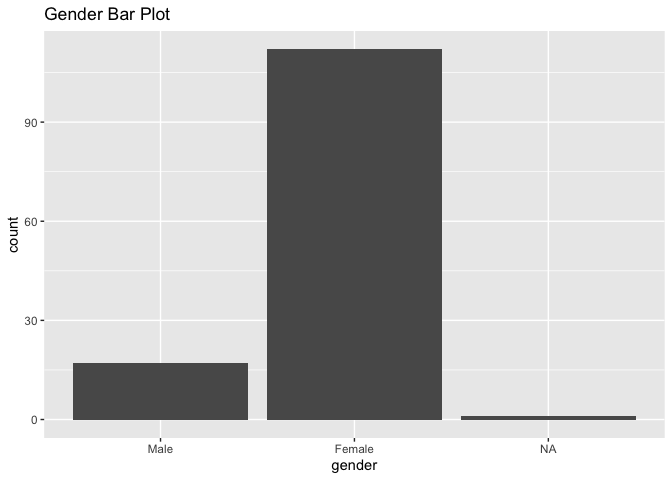
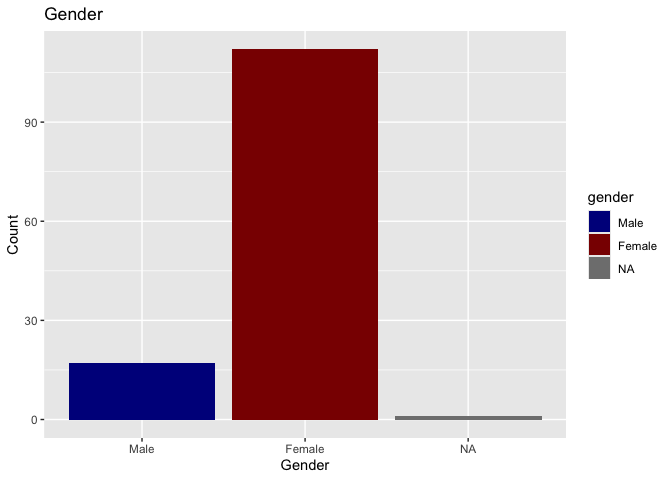
created new graphs to analyze

diff --git a/EDA_Notebook.md b/EDA_Notebook.md
@@ -21,7 +21,7 @@ practices to current health issues. The following data is sourced from
 the Association of Religion Data Archives, www.theARDA.com, and was
 collected by principal investigators Niko Kohls, Harald Walach, and
 George Lewish. The original data set consists of 254 variables and 111
-participants, but for better understanding, the ARDA decided to add
+participants, but for better comprehension, the ARDA decided to add
 variables and responses to include 258 total variables and 130
 respondents. However, for the purposes of this analysis, the variable
 count has been reduced to 13 variables. While this is a much shorter
@@ -77,90 +77,32 @@ REASONING FOR SELECTING THESE VARIABLES!!
 
 We will create a new data frame incorporating our variables of interest.
 
-    ##   [1] "strdream" "disworld" "IGNROVR1" "sprtwrk"  "drmfutr"  "hibnghlp"
-    ##   [7] "inenvrmt" "outspntm" "hrnvoice" "cntraln"  "spclite"  "consbody"
-    ##  [13] "mysmean"  "heatbdy"  "antdstny" "enrgysp"  "extrpow"  "thnkhpn" 
-    ##  [19] "prtdie"   "thnkslw"  "expndbdy" "mnfldrms" "readmnd"  "othrctrl"
-    ##  [25] "vivdrms"  "mntlsprt" "vibskin"  "peace"    "ineyevis" "trnsfrm" 
-    ##  [31] "intouch"  "atrctloc" "nothnk"   "unvrsrel" "knwclng"  "dilinvce"
-    ##  [37] "enrgypls" "cursed"   "sndhrmen" "supntbng" "lfeineye" "blrenvrt"
-    ##  [43] "vewaprt"  "notrivl"  "felsprtb" "posstho"  "hrvochlp" "inspinst"
-    ##  [49] "senrad"   "discenv"  "disself"  "strgtho"  "nofocus"  "sinbdy"  
-    ##  [55] "ildivne"  "benlght"  "incrund"  "pecdrm"   "exgwrld"  "IGNROVR2"
-    ##  [61] "spowork"  "dremfut"  "hibnhlp"  "inenvrnt" "outsptm"  "scldvoc" 
-    ##  [67] "ctstrfor" "imsplit"  "consep"   "depmyst"  "hetbdy"   "antdest" 
-    ##  [73] "enrgyspn" "extnpow"  "mothnkhp" "prtdies"  "slwthk"   "bdyexpnd"
-    ##  [79] "mnfldrm"  "otplrdmd" "wilacton" "vivdrems" "mentsup"  "tngskin" 
-    ##  [85] "atpeace"  "visineye" "bngtrans" "intochev" "locatrct" "bngthot" 
-    ##  [91] "unvrel"   "knocal"   "dilinvoc" "enrgybdy" "crsed"    "mentlhrm"
-    ##  [97] "contsubn" "lifeiney" "blrenvr"  "wrldvew"  "notrvil"  "felexbng"
-    ## [103] "thoinmnd" "voichlp"  "insinst"  "spradsns" "discenvr" "selfwrld"
-    ## [109] "nomythot" "notfocus" "strngsin" "ildivstr" "benlite"  "inrundst"
-    ## [115] "extrexp"  "evokslf"  "altrslf"  "relatexp" "meditech" "whtech"  
-    ## [121] "lngprct"  "oftprct"  "teahinst" "MNDFUL01" "MNDFUL02" "MNDFUL03"
-    ## [127] "MNDFUL04" "MNDFUL05" "MNDFUL06" "MNDFUL07" "MNDFUL08" "MNDFUL09"
-    ## [133] "MNDFUL10" "MNDFUL11" "MNDFUL12" "MNDFUL13" "MNDFUL14" "SPTEXP01"
-    ## [139] "SPTEXP02" "SPTEXP03" "SPTEXP04" "SPTEXP05" "SPTEXP06" "SPTEXP07"
-    ## [145] "SPTEXP08" "SPTEXP09" "SPTEXP10" "SPTEXP11" "SPTEXP12" "SPTEXP13"
-    ## [151] "SPTEXP14" "SPTEXP15" "SPTEXP16" "belgdwth" "redpnwld" "frgwrng" 
-    ## [157] "frgothrt" "gdfrgv"   "prvtpry"  "oftmed"   "relprgm"  "rdbblit" 
-    ## [163] "PRYB4MEL" "lgsprtfc" "prtnrwgd" "suptgod"  "punshsin" "gdabndon"
-    ## [169] "norelygd" "relgstrs" "conghlp"  "congcmft" "condemnd" "concrit" 
-    ## [175] "lifechng" "agexp"    "fathgain" "agegain"  "losfaith" "ageloss" 
-    ## [181] "belinlif" "cntrbch"  "hrschrh"  "atendrel" "wrshpact" "relpref" 
-    ## [187] "DENOM_SP" "relpersn" "sprtprsn" "lifediv"  "lifecal"  "DISTRS01"
-    ## [193] "DISTRS02" "DISTRS03" "DISTRS04" "DISTRS05" "DISTRS06" "DISTRS07"
-    ## [199] "DISTRS08" "DISTRS09" "DISTRS10" "DISTRS11" "DISTRS12" "DISTRS13"
-    ## [205] "DISTRS14" "DISTRS15" "DISTRS16" "DISTRS17" "DISTRS18" "DISTRS19"
-    ## [211] "DISTRS20" "DISTRS21" "DISTRS22" "DISTRS23" "DISTRS24" "DISTRS25"
-    ## [217] "DISTRS26" "DISTRS27" "DISTRS28" "DISTRS29" "DISTRS30" "DISTRS31"
-    ## [223] "DISTRS32" "DISTRS33" "DISTRS34" "DISTRS35" "DISTRS36" "DISTRS37"
-    ## [229] "DISTRS38" "DISTRS39" "DISTRS40" "DISTRS41" "DISTRS42" "DISTRS43"
-    ## [235] "DISTRS44" "DISTRS45" "DISTRS46" "DISTRS47" "DISTRS48" "DISTRS49"
-    ## [241] "DISTRS50" "DISTRS51" "DISTRS52" "DISTRS53" "age"      "gender"  
-    ## [247] "mrtlstus" "chldrn"   "lfesitu"  "denom"    "eductn"   "prsntoc" 
-    ## [253] "sample"   "grouppe"  "I_AGE"    "I_ATTEND" "I_EDUC"   "I_GENDER"
-
-    ##               belgdwth                    prvtpry                   relpersn 
-    ##  Strongly disagree:25   Never                 :39   Not religious at all:50  
-    ##  Disagree         :18   More than once a day  :22   Slightly religious  :37  
-    ##  Agree            :41   Less than once a month:21   Moderately religious:26  
-    ##  Strongly agree   :43   A few times a week    :17   Very religious      :15  
-    ##  NA's             : 3   Once a day            :14   NA's                : 2  
-    ##                         (Other)               :15                            
-    ##                         NA's                  : 2                            
-    ##                  sprtprsn          DISTRS04          DISTRS11 
-    ##  Not spiritual at all:16   Not at all  :76   Not at all  :90  
-    ##  Slightly spiritual  :22   A little bit:33   A little bit:25  
-    ##  Moderately spiritual:45   Moderately  : 9   Moderately  : 6  
-    ##  Very spiritual      :45   Quite a bit : 9   Quite a bit : 5  
-    ##  NA's                : 2   Extremely   : 1   Extremely   : 2  
-    ##                            NA's        : 2   NA's        : 2  
-    ##                                                               
-    ##          DISTRS16          DISTRS23          DISTRS37          DISTRS53 
-    ##  Not at all  :59   Not at all  :69   Not at all  :47   Not at all  :90  
-    ##  A little bit:46   A little bit:34   A little bit:33   A little bit:24  
-    ##  Moderately  : 9   Moderately  :10   Moderately  :17   Moderately  : 8  
-    ##  Quite a bit : 7   Quite a bit : 4   Quite a bit :20   Extremely   : 5  
-    ##  Extremely   : 7   Extremely   : 9   Extremely   :11   NA's        : 3  
-    ##  NA's        : 2   NA's        : 4   NA's        : 2                    
-    ##                                                                         
-    ##     gender        mrtlstus              denom   
-    ##  Male  : 17   Single  :35   Protestant     :50  
-    ##  Female:112   Married :69   No denomination:29  
-    ##  NA's  :  1   Divorced:25   Other          : 8  
-    ##               Widowed : 1   Christian      : 5  
-    ##                             Catholic       : 5  
-    ##                             (Other)        :28  
-    ##                             NA's           : 5
-
-### Graphs/ Tabular…
+### Getting to Know the Participants
 
 #### Gender
 
 ![](EDA_Notebook_files/figure-gfm/unnamed-chunk-4-1.png)<!-- -->
 
+\[Analysis here\] \#### Marital Status
+![](EDA_Notebook_files/figure-gfm/unnamed-chunk-5-1.png)<!-- -->
+
+\[Analysis here\]
+
+#### Denomination
+
+![](EDA_Notebook_files/figure-gfm/unnamed-chunk-6-1.png)<!-- -->
+
+\[Anaylis here\]
+
+#### How Religious or How Spiritual
+
+<img src="EDA_Notebook_files/figure-gfm/figures-side-1.png" width="50%" /><img src="EDA_Notebook_files/figure-gfm/figures-side-2.png" width="50%" />
+
+\[Analysis here\]
+
 ### Analysis
+
+\####Scatterplot
 
 Plans: huge difference in gender (women 112\> men 17) most are not
 religious (50) but very spiritual (45) 90 nothing is wrong with mind 50
